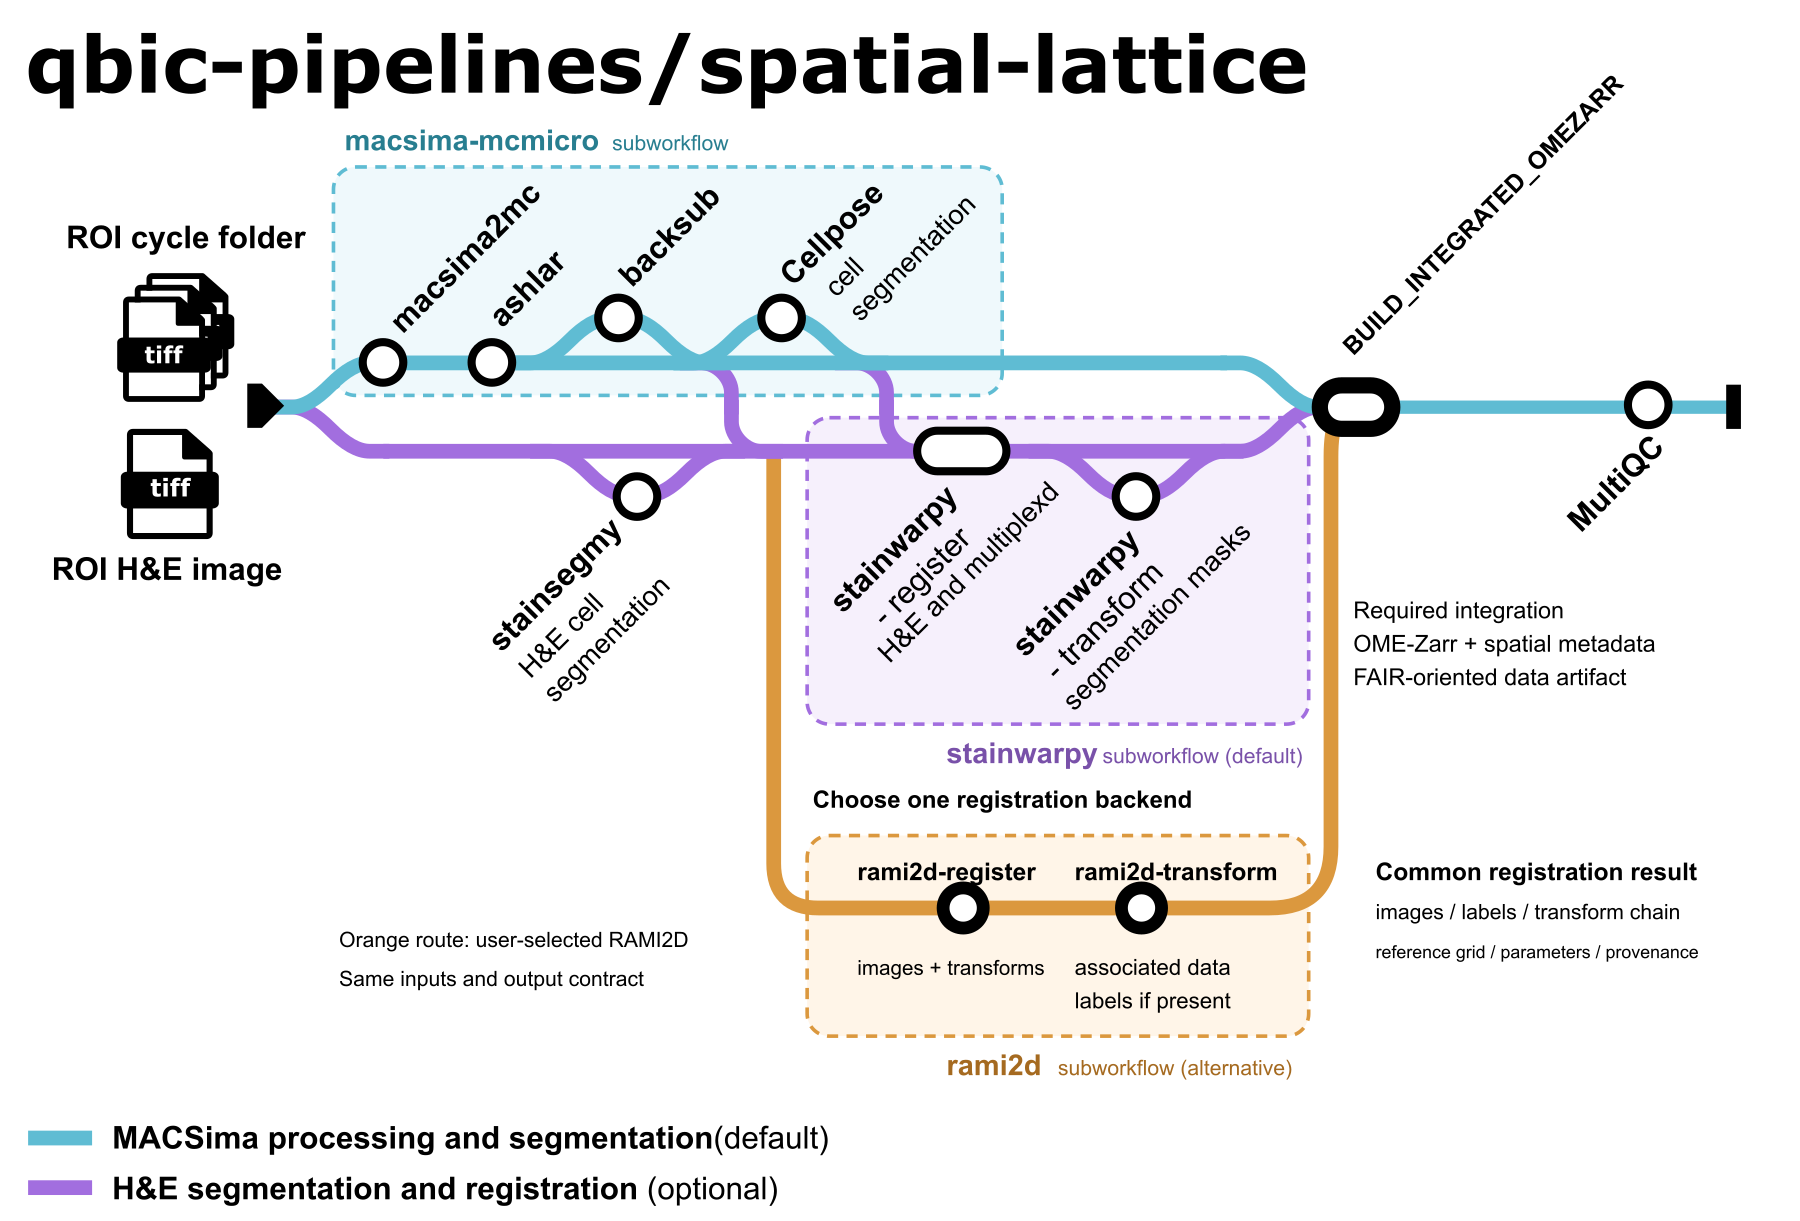
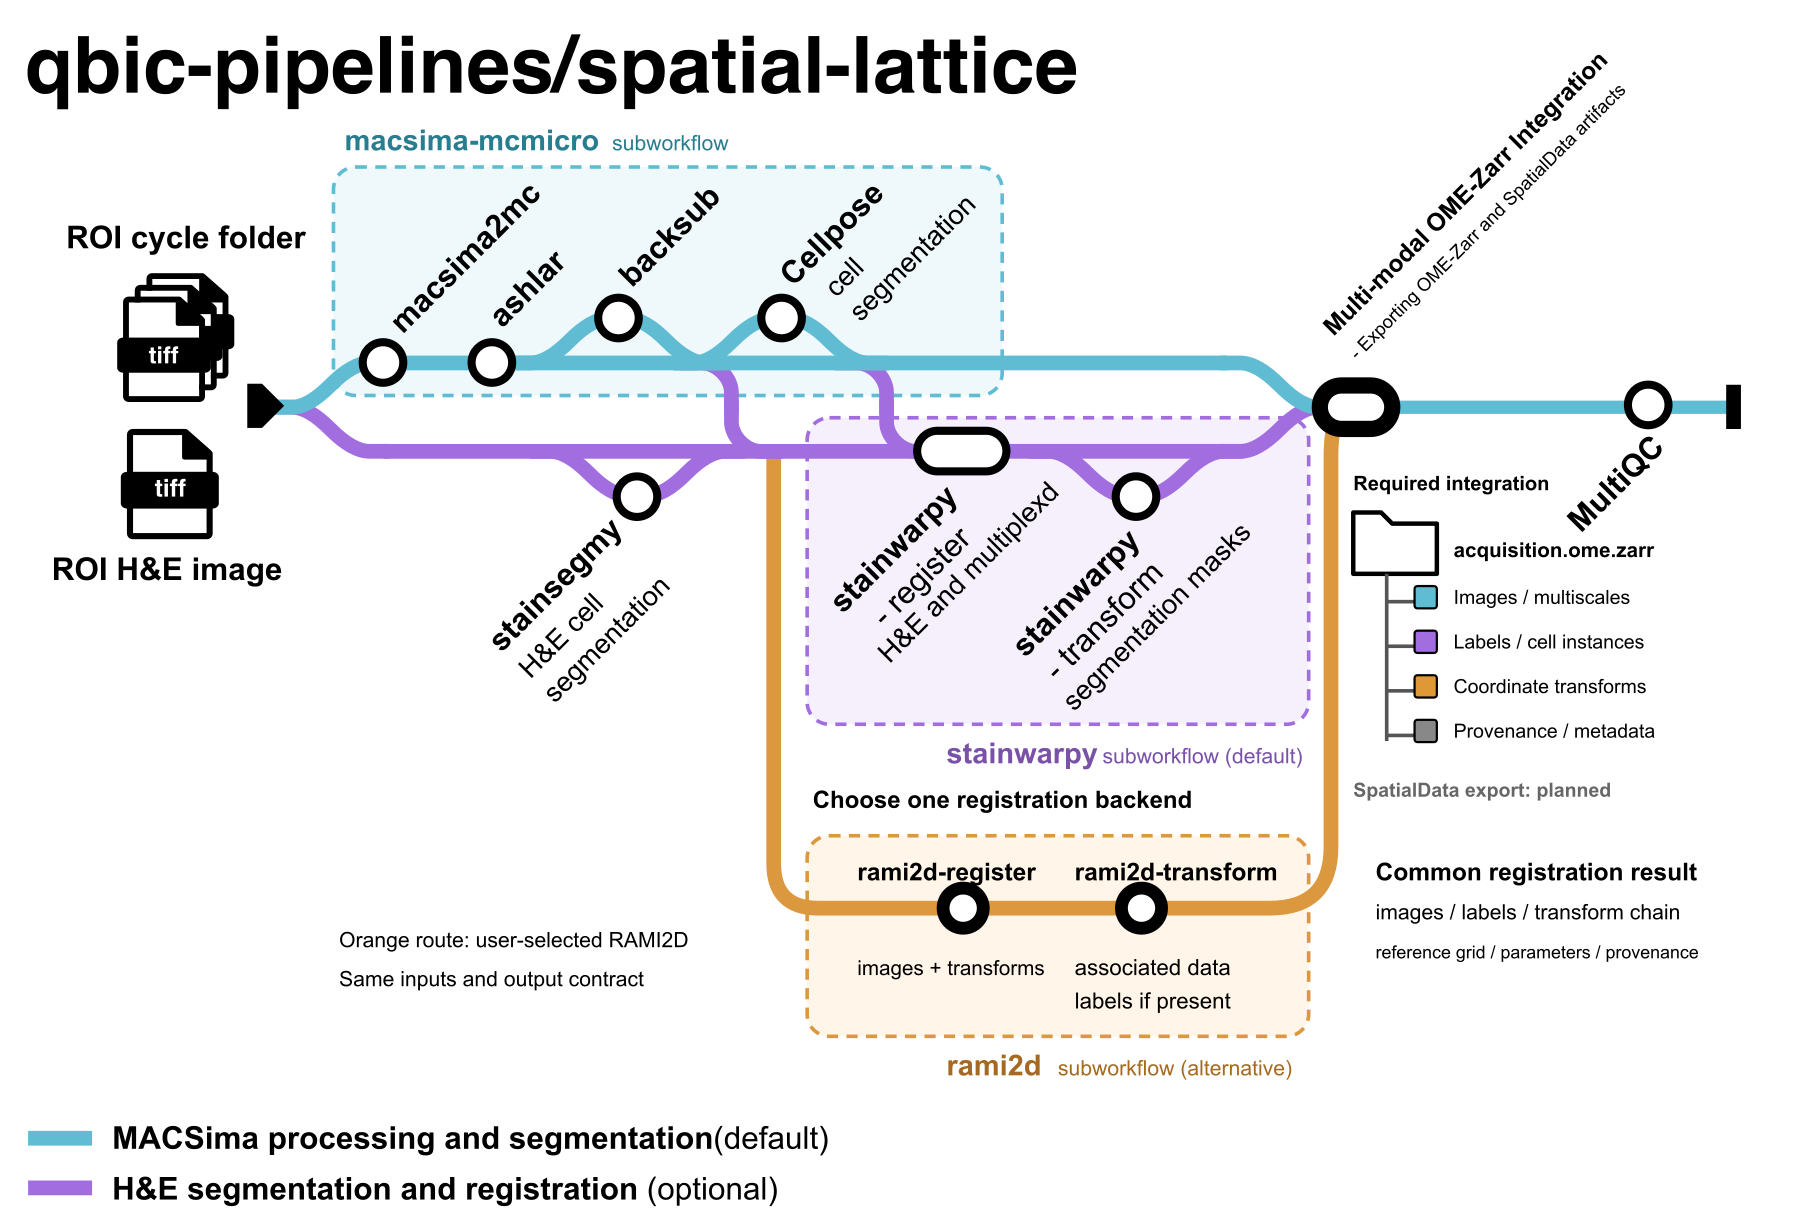
Document multimodal integration stage and detailed pipeline steps

diff --git a/README.md b/README.md
@@ -15,13 +15,47 @@ This prototype requires per-ROI MACSima/H&E pairs and Cellpose 3. Project-folder
 
 ![spatial-lattice](docs/images/metromap.svg)
 
-The prototype groups processing into three subworkflows:
+## Pipeline steps
 
-1. **MACSIMA_MCMICRO** stages MACSima cycles, stitches tiles with ASHLAR, optionally subtracts background and segments with Cellpose 3.
-2. **SPATIAL_INTEGRATION_STAINWARPY** is the default image registration and optional moving-mask transformation path.
-3. **SPATIAL_INTEGRATION_RAMI2D** is the alternative path, implemented with new modules and selected with `--registration_backend rami2d`.
+1. **Input validation and pairing**
+   - Read the per-ROI samplesheet: experiment, sample, rack, well, ROI, raw MACSima cycle folder and H&E image.
+   - Match MACSima acquisitions to H&E by the complete sample/ROI identity; reject missing or ambiguous pairs. Preserve exposure-specific acquisition IDs to keep outputs distinct.
 
-The chosen registration path feeds the required **BUILD_INTEGRATED_OMEZARR**, followed by MultiQC. Reference Cellpose labels stay in the MACSima frame; optional moving labels are transformed once and exported alongside registered H&E. Native registration files are retained as provenance. RAMI2D linear native-to-reference transforms are mapped into the NGFF scene; its already-registered image and labels share the calibrated reference grid. See the [RFC-5 adapter](docs/rami2d_rfc5.md) for supported transforms and validation.
+2. **MACSima processing — `MACSIMA_MCMICRO`**
+   - **`MCSTAGING_MACSIMA2MC` (macsima2mc):** organize the raw cycle/tile images into acquisition groups and produce marker sheets. Apply the selected staging options, such as high-exposure filtering and illumination correction.
+   - **`ASHLAR`:** stitch tiles and align imaging cycles into a calibrated multichannel OME-TIFF mosaic. This mosaic remains the reference for registration and OME-Zarr export.
+   - **`BACKSUB` (optional):** subtract marker-associated background using the marker sheet. When enabled, its image feeds segmentation; it does not replace the ASHLAR registration/export reference.
+   - **`MACSIMA_SEGMENTATION` → `CELLPOSE3`:** segment the selected mosaic and produce integer instance labels in the MACSima reference frame. The integrated prototype currently requires Cellpose 3, even though the underlying segmentation workflow contains other methods.
+   - Forward the reference mosaic, Cellpose mask and marker sheet to the downstream integration steps.
+
+3. **H&E segmentation — `STAINSEGMY` (optional)**
+   - Segment the native H&E image when `--stainsegmy` is enabled.
+   - Forward its mask with the H&E image to the selected registration backend. Without it, registration and export proceed without a moving-image mask.
+   - Full-data testing of this route and its transformed masks remains outstanding; see the [annotation backlog](#todo-h-e-segmentation-and-spatial-annotation-transformations).
+
+4. **Spatial integration — choose one backend**
+   - **`SPATIAL_INTEGRATION_STAINWARPY` (default)** wraps `TIF_REGISTRATION_STAINWARPY`:
+     - **`STAINWARPY_EXTRACTCHANNEL`:** extract the reference channel from the MACSima mosaic.
+     - **`STAINWARPY_REGISTER`:** register H&E to MACSima and emit the registered image, native transformation matrix and registration metrics.
+     - **`STAINWARPY_TRANSFORMSEGMASK` (when a moving mask exists):** apply the corresponding registration to the H&E mask.
+   - **`SPATIAL_INTEGRATION_RAMI2D` (alternative, `--registration_backend rami2d`):**
+     - **`RAMI2D_REGISTER_IMAGES`:** validate calibration/channel settings, register the selected image channels and write H&E on the reference grid. Rigid registration is the default; rigid followed by affine is available.
+     - **`RAMI2D_TRANSFORM_LABELS` (when a moving mask exists):** transform the associated H&E labels using the saved registration, with label-preserving interpolation.
+     - **`RAMI2D_EXPORT_RESULT`:** package native ITK/Elastix transform files, the registration log and a provenance/parameter record.
+   - Both paths emit the same integration bundle: reference image, native and registered H&E, optional transformed moving mask, native transforms and backend metrics. MACSima Cellpose labels already occupy the reference frame and are not transformed again.
+
+5. **Multi-modal OME-Zarr Integration — Exporting OME-Zarr and SpatialData artifacts**
+   - **`BUILD_INTEGRATED_OMEZARR` (required subworkflow):** collect the selected backend's result with the matched reference Cellpose mask and marker sheet. Every processing route passes through this integration step before MultiQC.
+     - **`INTEGRATED_OMEZARR` → `bin/integrate_omezarr.py`:** read image/label arrays and OME calibration; require compatible reference-grid shapes and isotropic spatial calibration.
+     - Write MACSima, its Cellpose labels, registered H&E and optional transformed H&E labels into one OME-Zarr store per acquisition. Preserve full-resolution pixels; create four pyramid levels using Gaussian image downsampling and nearest-neighbour label downsampling.
+     - Record NGFF 0.6/RFC-5 coordinate systems and transformations, including native-H&E-to-reference mappings. For RAMI2D, `bin/rami2d_rfc5.py` resolves supported linear transform chains and resize geometry. Already-resampled images are not registered a second time.
+     - Preserve marker information, source OME XML and checksums, software versions, native transforms and registration metrics as provenance.
+     - Read back and validate the NGFF scene and reference grids; emit the artifact and `integrated_omezarr_mqc.json` for MultiQC.
+   - **Output today:** OME-Zarr. **Planned output:** SpatialData artifacts; serialization and interoperability checks are not implemented yet. The diagram names the intended integration stage, while the existing Nextflow identifiers remain unchanged. See the [integration guide](docs/integrated_omezarr.md).
+
+6. **Reporting — `MULTIQC`**
+   - Combine integration validation results, software versions, workflow parameters and methods into the final MultiQC report.
+   - Successful export and schema/grid validation do not establish biological registration accuracy; inspect the image and annotation overlays separately.
 
 See [prototype setup, containers and tests](docs/prototype_subworkflows.md) before running this development branch. OME vector ROIs remain in the [backlog](#deferred-ome-roi-objects-and-vector-spatial-annotations).
 
@@ -79,6 +113,8 @@ Both spatial integration paths should feed the required **BUILD_INTEGRATED_OMEZA
 
 The [shared registration contract](docs/prototype_registration.md), [RAMI2D design notes](docs/rami2d_prototype.md) and [OME-Zarr integration documentation](docs/integrated_omezarr.md) provide background. This scope decision supersedes any earlier suggestion in those design notes to reuse inherited RAMI2D modules or implement vector annotations during the first prototype.
 
+<a id="todo-h-e-segmentation-and-spatial-annotation-transformations"></a>
+
 ### TODO: H&E segmentation and spatial annotation transformations
 
 The full-data comparison on solidfox (2026-11-17) used `stainsegmy: false` for both backends. Its OME-Zarr artifacts contain MACSima Cellpose labels only; they do **not** validate transformation of real H&E segmentation masks. Earlier synthetic moving-mask tests cover basic wiring and label handling, but are not a substitute for this test.
@@ -88,6 +124,10 @@ The full-data comparison on solidfox (2026-11-17) used `stainsegmy: false` for b
 - [ ] **Extend transformation support to spatial objects later**, including points, circles/ellipses and polygons. Define a shared annotation contract and preserve object IDs, properties, source coordinates and provenance. Follow the [deferred OME ROI work plan](#deferred-ome-roi-objects-and-vector-spatial-annotations); vector support is not implemented by the current image/mask adapters.
 
 **Visual review note:** the user judged both full-data image registrations acceptable for this milestone, with Stainwarpy showing better fine-grained alignment than RAMI2D. This is qualitative feedback, not a quantitative accuracy benchmark or validation of annotation transformations. Registration optimization is outside this TODO.
+
+### TODO: SpatialData artifact export
+
+- [ ] Add SpatialData serialization to the Multi-modal OME-Zarr Integration stage. Map images, labels and future spatial objects into a shared coordinate system; preserve calibration, identifiers and provenance. Define the output layout and supported schema versions, and validate round trips and viewer interoperability against the OME-Zarr output before advertising SpatialData as an available artifact.
 
 ### Deferred: OME ROI objects and vector spatial annotations
 

diff --git a/modules/local/integrated_omezarr/README.md b/modules/local/integrated_omezarr/README.md
@@ -1,51 +1,27 @@
-# Integrated OME-Zarr
+# Multi-modal OME-Zarr Integration
 
-This module exports one MACSima acquisition, one Cellpose instance mask and
-the registered H&E into an NGFF 0.6 scene, using ngff-zarr 0.52.0.
-It is an experimental RFC-5 implementation; scene viewer compatibility varies.
-SpatialData serialization is deliberately deferred.
+**Exporting OME-Zarr and SpatialData artifacts** describes the intended integration stage. This module currently exports **OME-Zarr only**; SpatialData serialization remains planned.
 
-## Build on solidfox
+`INTEGRATED_OMEZARR` is called by the required `BUILD_INTEGRATED_OMEZARR` subworkflow before MultiQC. It uses ngff-zarr 0.52.0 to write an NGFF 0.6/RFC-5 scene. Viewer support for scene transforms varies.
 
-From the repository root:
+## Inputs and processing
 
-```bash
-docker build -t quay.io/spatial-lattice-omezarr:dev -f modules/local/integrated_omezarr/Dockerfile .
-source /home/ubuntu/miniconda3/etc/profile.d/conda.sh
-conda activate nf-core
-nextflow run tests/omezarr_example.nf -profile docker --outdir results/omezarr-test -resume
-```
+- One stitched MACSima reference image, its Cellpose 3 mask and marker sheet.
+- Native H&E for calibration/provenance, registered H&E and an optional already-transformed H&E mask.
+- Native transformation assets and metrics from either Stainwarpy or RAMI2D.
 
-The quay.io tag is LOCAL ONLY, built above; no image has been published.
-requirements.txt pins the complete Python environment.
+`bin/integrate_omezarr.py` validates calibration and reference-grid shapes, preserves full-resolution image/label pixels, writes four pyramid levels and records coordinate mappings. Images use Gaussian pyramid downsampling; labels use nearest-neighbour downsampling. Image arrays are CYX and labels YX; physical spatial axes use micrometres.
 
-For the full pipeline, runs/solidfox/params.json enables integrated_omezarr.
-It requires stainwarpy=true, fixed_img=final_sz=multiplexed and exactly one
-Cellpose segmentation method. MultiQC waits for the exporter QC output.
-The example test uses the existing full-resolution mask in Caro/spl-out;
-it does not wait for or replace the still-running Caro Cellpose job.
+The existing Stainwarpy adapter and `bin/rami2d_rfc5.py` normalize supported linear native-to-reference mappings. Registered H&E and its transformed labels are already on the reference grid: this module does not register or resample them again. MACSima Cellpose labels remain in their original reference frame.
 
-## Coordinates
+Source OME XML, marker names, checksums, software versions, native transforms and metrics are preserved. The store records the native H&E coordinate relationship but does not include a native H&E pixel array. Per-cycle/tile ASHLAR transforms are not exported; the final mosaic calibration is retained. Nonlinear mappings and anisotropic calibration are unsupported.
 
-Image arrays are CYX; labels are YX. Physical spatial axes use micrometres.
-A scene affine projects channel coordinates away into the shared spatial frame.
-Registered H&E is already resampled: registration is NOT applied again.
+## Outputs and validation
 
-The adapter is specific to Stainwarpy 0.2.4 affine/similarity registration.
-The saved matrix maps native H&E XY pixels to a reduced MACSima registration
-grid. Axis permutation converts XY to YX. The grid-to-reference mapping
-includes integer shape rounding and skimage.resize pixel-center offsets.
-Source H&E physical calibration is represented separately.
-Unsupported projective transforms and anisotropic calibration are rejected.
+- `<acquisition_id>.ome.zarr`: images, associated labels, coordinate transformations and provenance.
+- `integrated_omezarr_mqc.json`: scene read-back and grid-validation results for MultiQC.
+- Software-version topic entry.
 
-Full-resolution pixels are preserved. Image pyramids use Gaussian downsampling;
-label pyramids use nearest neighbour. Source OME-XML, marker names, registration
-metrics, source checksums and exporter versions are retained in a namespaced
-spatial_lattice provenance attribute. Source OME-XML is provenance, not a claim
-that the original acquisition geometry still describes resampled H&E.
+There is currently no SpatialData output. Full-data H&E segmentation/moving-mask tests and future spatial-object support are tracked in the [README backlog](../../../README.md#development-backlog).
 
-Export reads back the scene and checks grid consistency before publishing.
-tests/check_omezarr_example.py adds sample pixel/label and coordinate checks.
-The scene contains no native H&E pixel array, only its coordinate relationship.
-Stitching/per-cycle ASHLAR transformations are not exported by this module;
-only the final mosaic calibration and Stainwarpy registration are represented.
+See the [integration guide](../../../docs/integrated_omezarr.md) for artifact layout, container setup, calibration and viewing, and [prototype tests](../../../tests/prototype/README.md) for validation commands.

diff --git a/docs/integrated_omezarr.md b/docs/integrated_omezarr.md
@@ -1,6 +1,15 @@
-# Integrated OME-Zarr output
+# Multi-modal OME-Zarr Integration
+
+**Exporting OME-Zarr and SpatialData artifacts** is the intended scope of this stage. The current implementation exports OME-Zarr only; SpatialData serialization is planned. The implementation identifiers remain `BUILD_INTEGRATED_OMEZARR` (subworkflow) and `INTEGRATED_OMEZARR` (module).
 
 `BUILD_INTEGRATED_OMEZARR` is required in the integrated prototype and runs before MultiQC. It combines the stitched MACSima reference image, its Cellpose 3 mask, registered H&E and an optional transformed moving mask. The registration backend is selected with `registration_backend`; Stainwarpy is the default and RAMI2D is the alternative.
+
+## Subworkflow and module responsibilities
+
+1. `BUILD_INTEGRATED_OMEZARR` receives each acquisition's matched reference image, Cellpose mask, native/registered H&E, optional transformed moving mask, transforms, metrics and marker sheet.
+2. `INTEGRATED_OMEZARR` invokes `bin/integrate_omezarr.py` to check array geometry and calibration, build the image/label pyramids and construct the NGFF scene. The RAMI2D adapter in `bin/rami2d_rfc5.py` maps supported native linear chains into the common reference coordinate system.
+3. The module writes one OME-Zarr store, retains source and registration provenance, and validates the stored scene before emitting its QC JSON. MultiQC consumes that QC output.
+4. A future SpatialData export will reuse the integrated data and coordinate relationships. It is not an additional registration step and is not currently emitted.
 
 ## Setup and execution
 
@@ -47,4 +56,4 @@ In the tested `napari-ome-zarr` environment, open the image subgroups rather tha
 napari --plugin napari-ome-zarr example.ome.zarr/macsima example.ome.zarr/hne_registered
 ```
 
-H&E channels represent RGB. Labels are associated with their image groups. See [test instructions](../tests/prototype/README.md) for generating a local toy example; the full original acquisition still needs an end-to-end rerun.
+H&E channels represent RGB. Labels are associated with their image groups. See [test instructions](../tests/prototype/README.md) for generating a local toy example; both backends have also completed full original-ROI runs on solidfox. Those runs disabled H&E segmentation, so full-data moving-mask validation remains pending.
